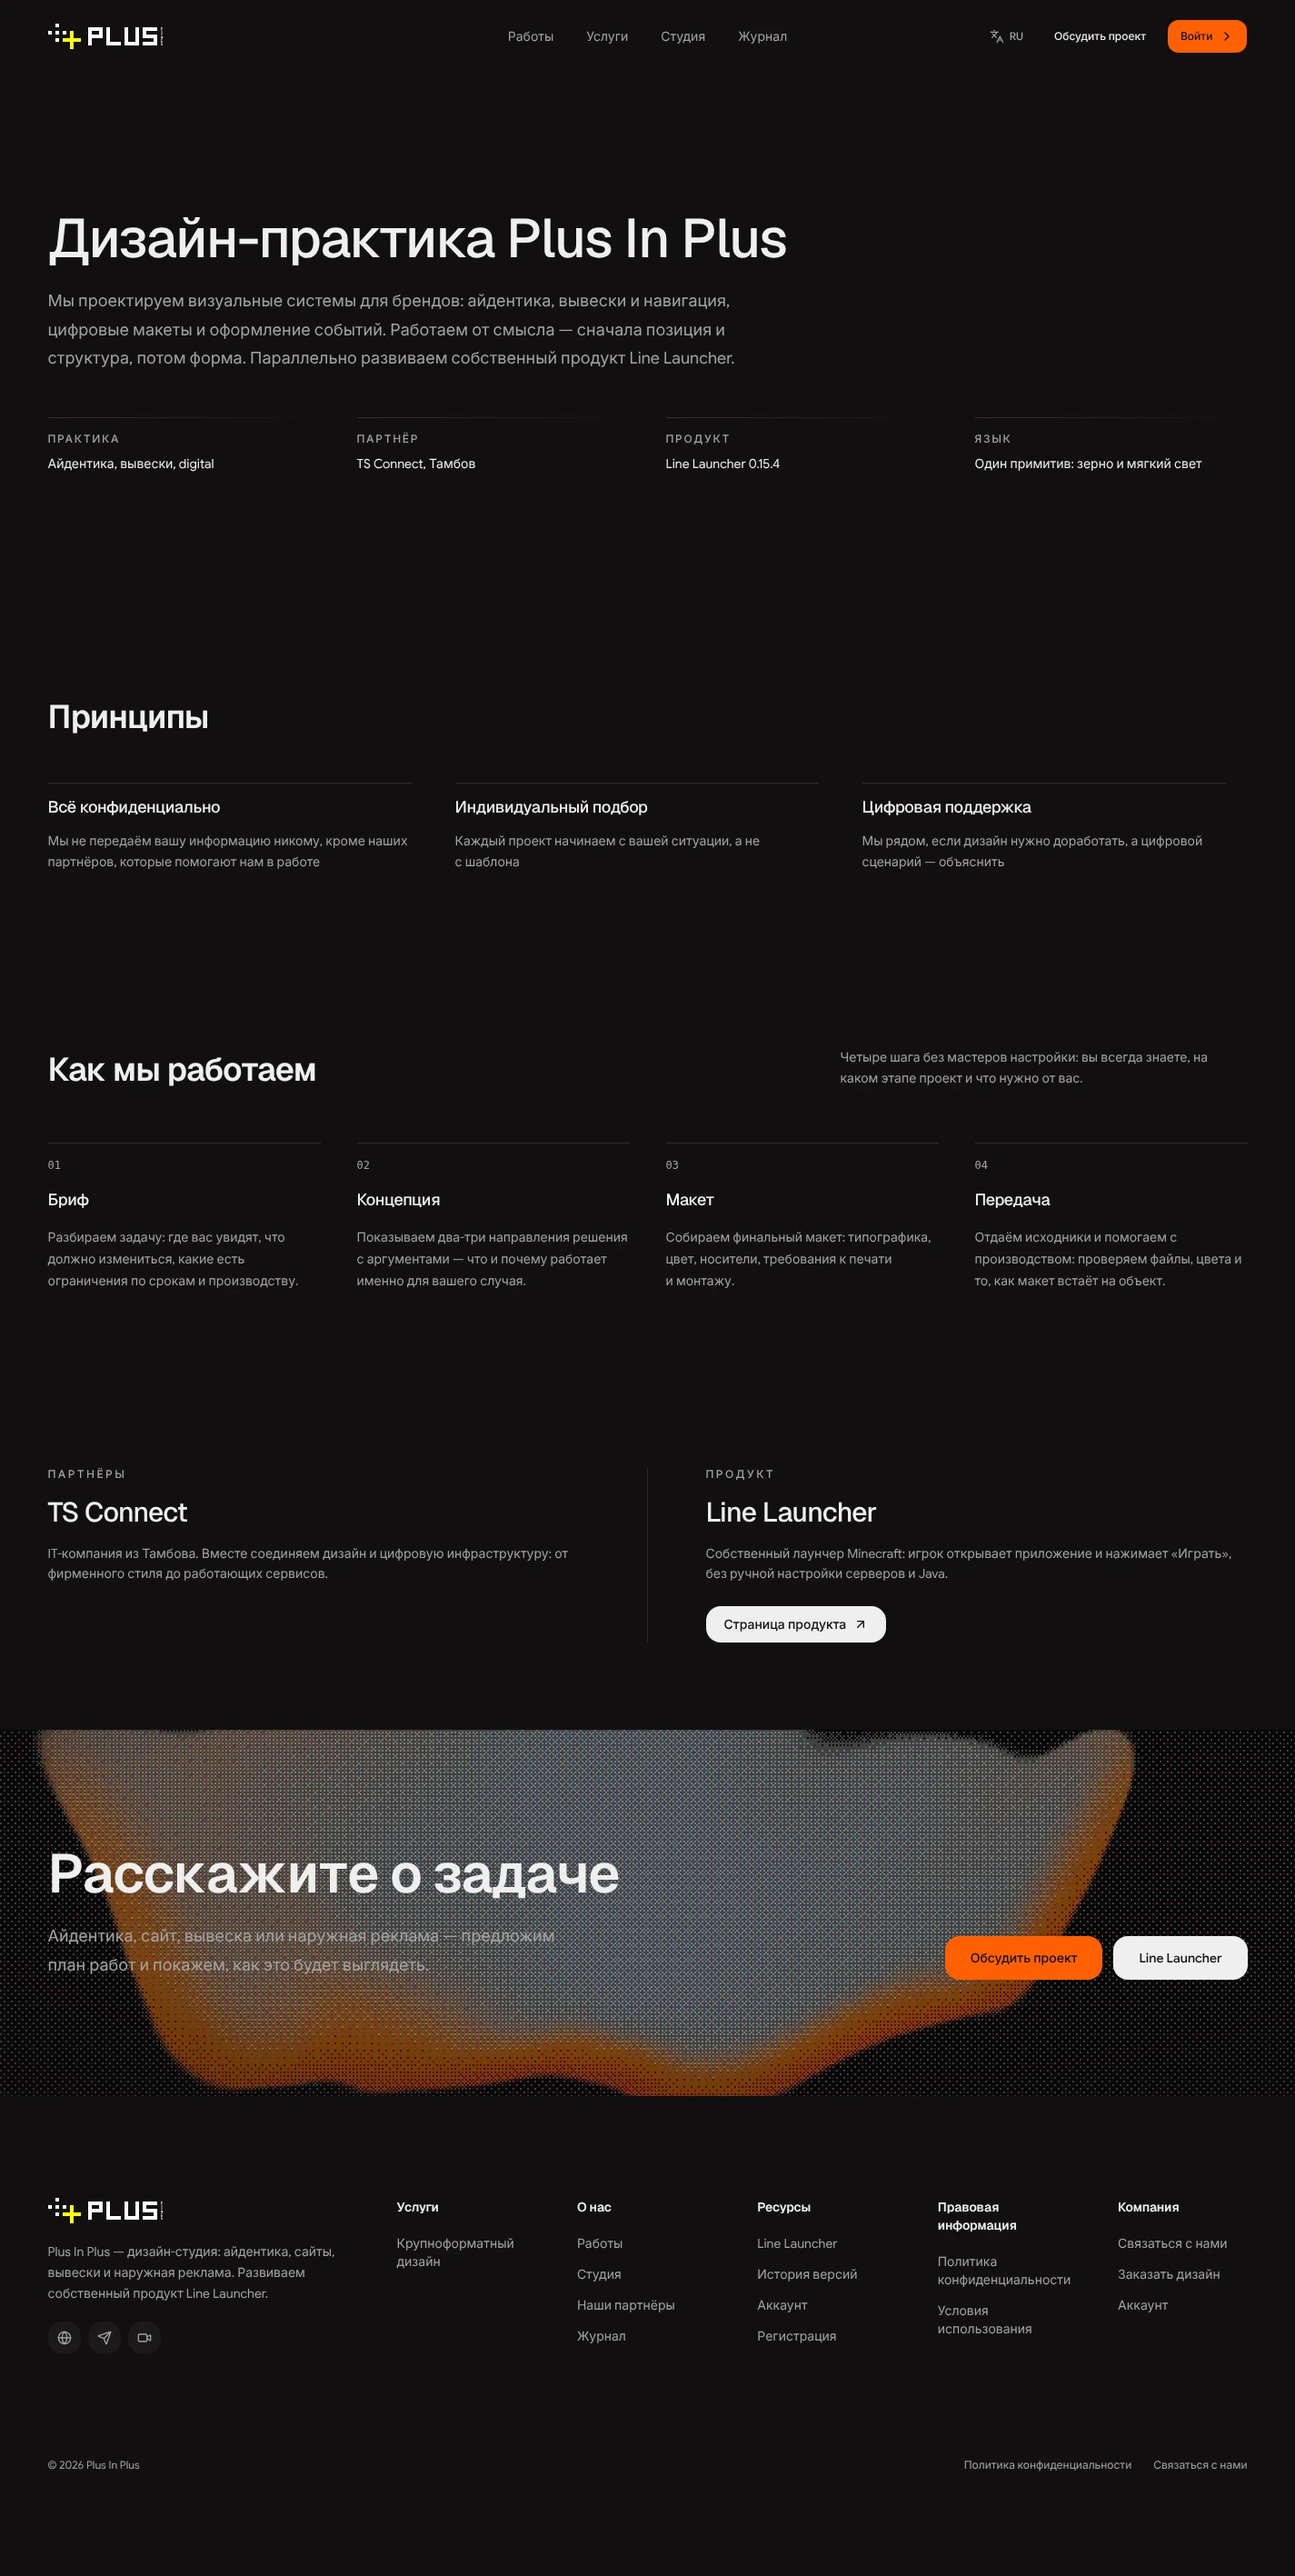
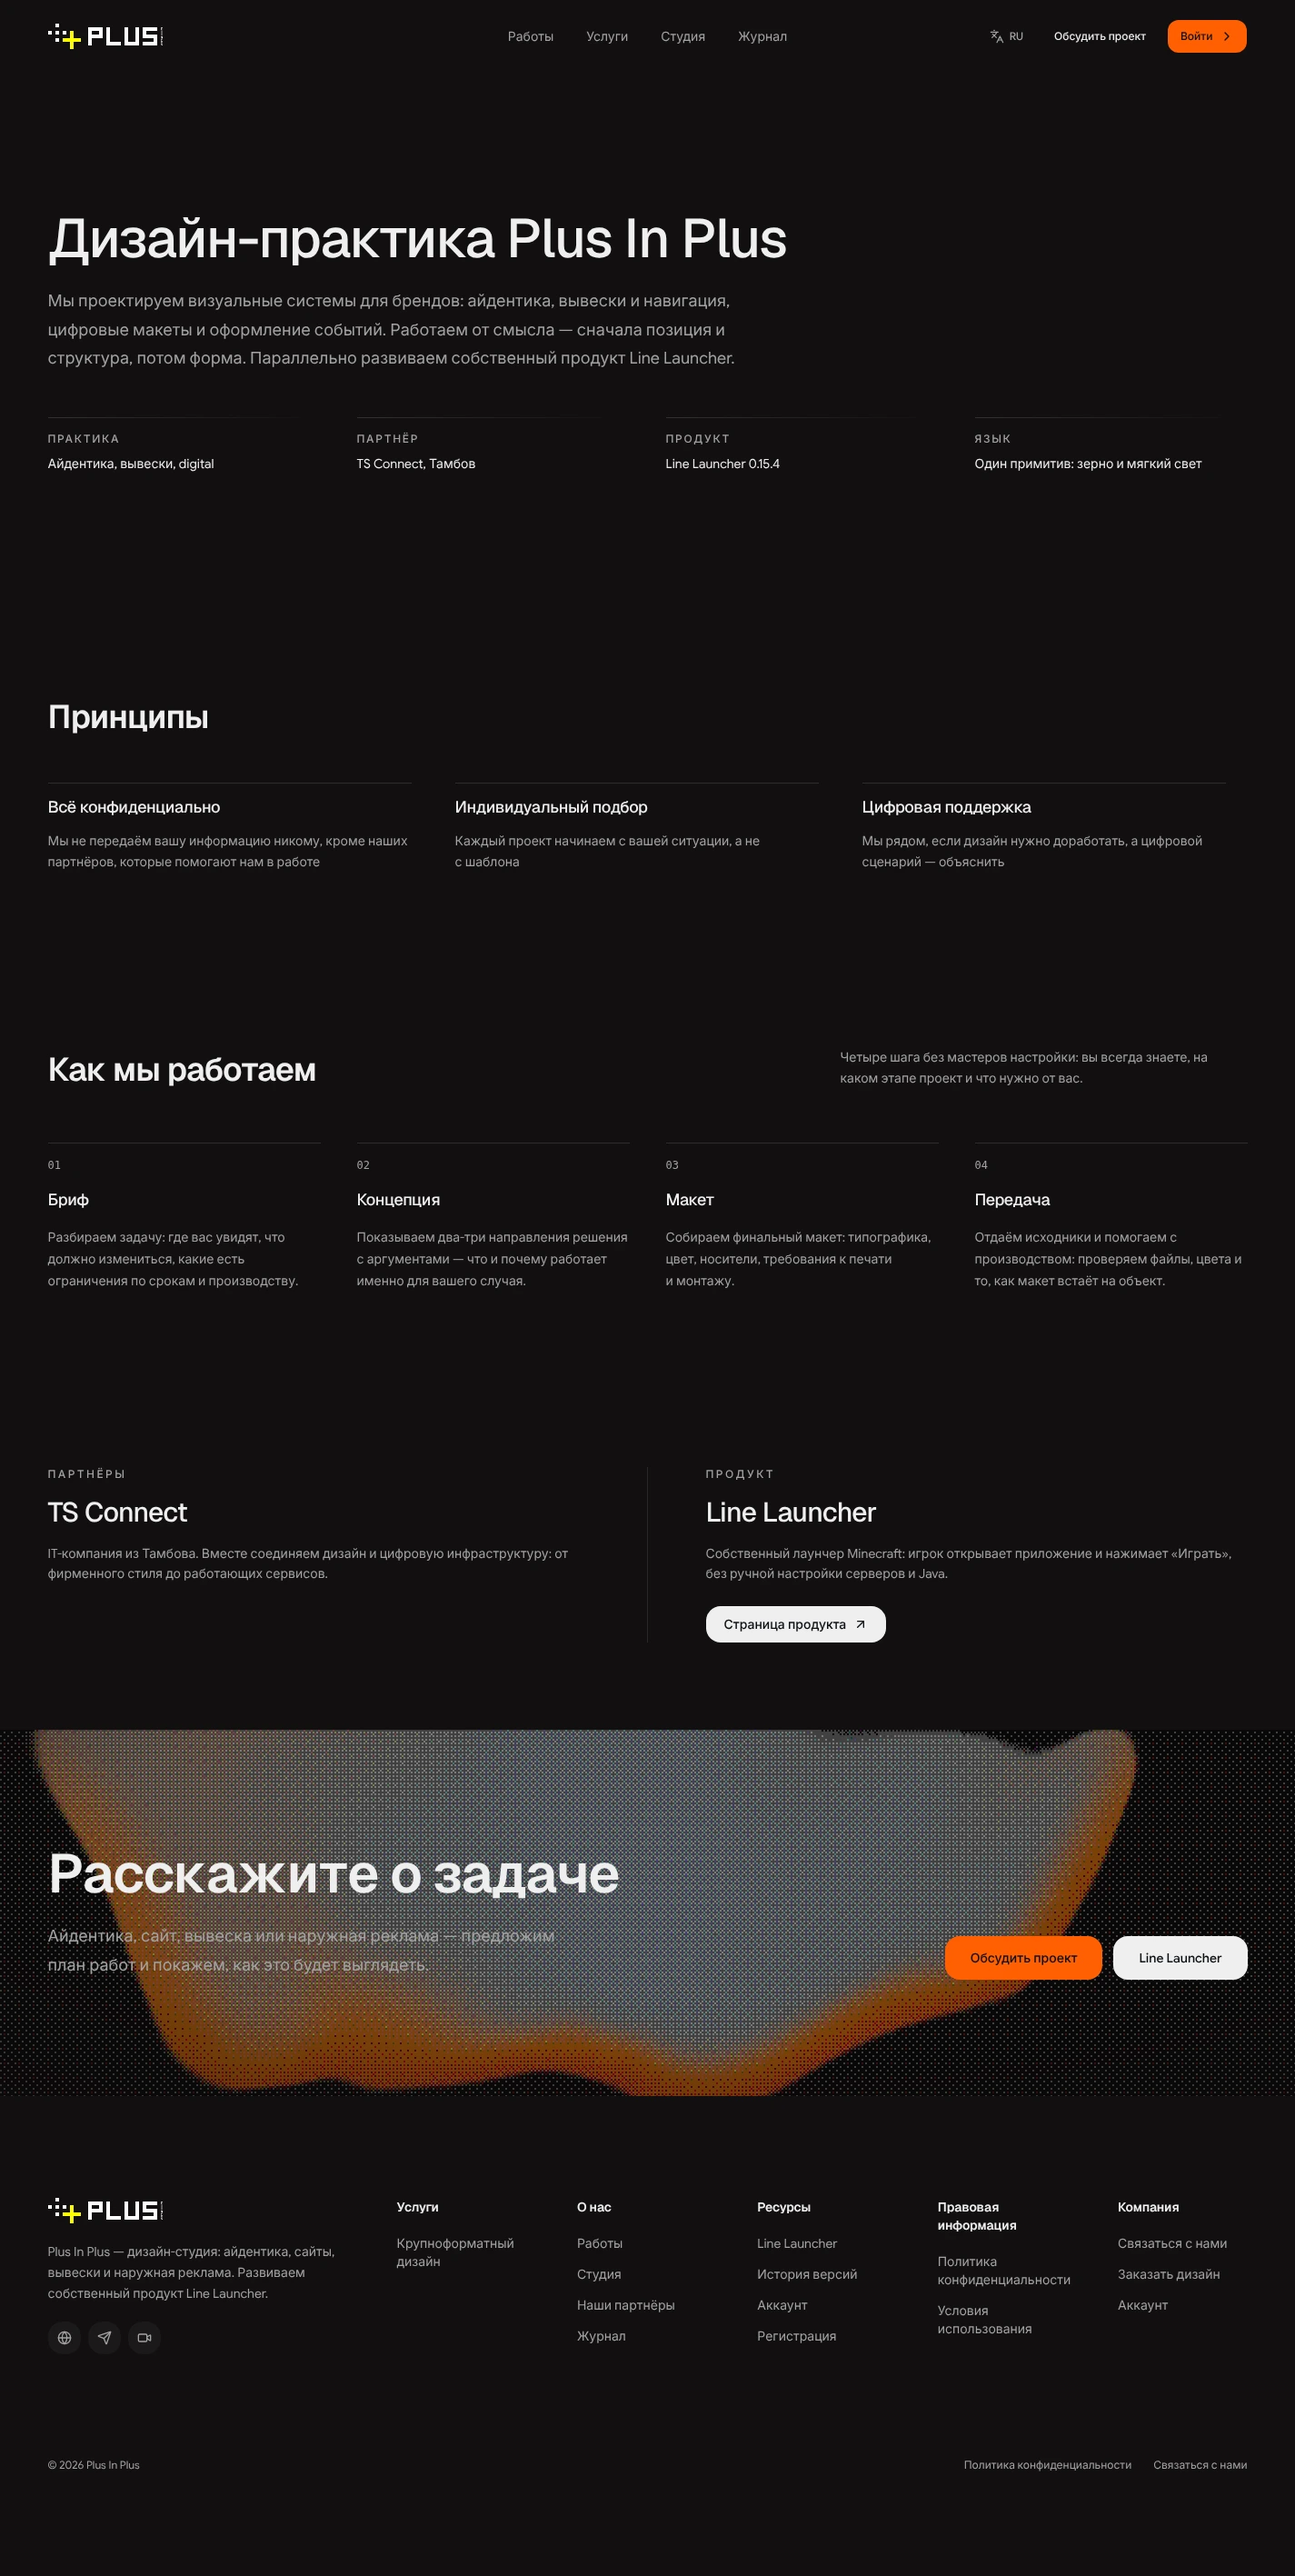
Line Launcher: полоса ссылок проекта
Репозиторий, issue tracker, релизы на GitHub и история версий на сайте — одной
строкой на плоской поверхности перед финальным призывом. Документации и
сообщества у проекта нет, поэтому выдуманных пунктов в полосе не появилось.

diff --git a/components/site/line-launcher-view.tsx b/components/site/line-launcher-view.tsx
@@ -53,6 +53,11 @@ export async function LineLauncherView() {
   const features = t.raw("features") as Feature[];
   const gallery = t.raw("gallery") as Screenshot[];
   const whatsNew = t.raw("whatsNew") as { title: string; link: string };
+  const links = t.raw("links") as {
+    repo: string;
+    issues: string;
+    releases: string;
+  };
   // Блок краткий и честный: записи берутся из той же истории версий, что и
   // страница changelog. Нет данных — нет и блока.
   const recent = getChangelog()?.entries.slice(0, 3) ?? [];
@@ -289,6 +294,58 @@ export async function LineLauncherView() {
               {t("buildBody")}
             </p>
           </div>
+        </div>
+      </section>
+
+      <section className="relative pb-16 md:pb-20">
+        <div className="container relative z-10">
+          {/* Полоса ссылок вместо JetBrains-трио: документации и сообщества у
+              проекта нет, поэтому остаются только существующие адреса. */}
+          <nav
+            aria-label={t("linksLabel")}
+            className="bg-card px-6 py-5 md:px-8"
+          >
+            <ul className="flex flex-wrap items-baseline gap-x-8 gap-y-2 text-sm">
+              <li>
+                <a
+                  href={REPOSITORY_URL}
+                  target="_blank"
+                  rel="noreferrer"
+                  className="text-muted-foreground underline-offset-4 transition-colors hover:text-foreground hover:underline"
+                >
+                  {links.repo}
+                </a>
+              </li>
+              <li>
+                <a
+                  href={`${REPOSITORY_URL}/issues`}
+                  target="_blank"
+                  rel="noreferrer"
+                  className="text-muted-foreground underline-offset-4 transition-colors hover:text-foreground hover:underline"
+                >
+                  {links.issues}
+                </a>
+              </li>
+              <li>
+                <a
+                  href={`${REPOSITORY_URL}/releases`}
+                  target="_blank"
+                  rel="noreferrer"
+                  className="text-muted-foreground underline-offset-4 transition-colors hover:text-foreground hover:underline"
+                >
+                  {links.releases}
+                </a>
+              </li>
+              <li>
+                <Link
+                  href="/line-launcher/changelog"
+                  className="text-muted-foreground underline-offset-4 transition-colors hover:text-foreground hover:underline"
+                >
+                  {whatsNew.link}
+                </Link>
+              </li>
+            </ul>
+          </nav>
         </div>
       </section>
 
